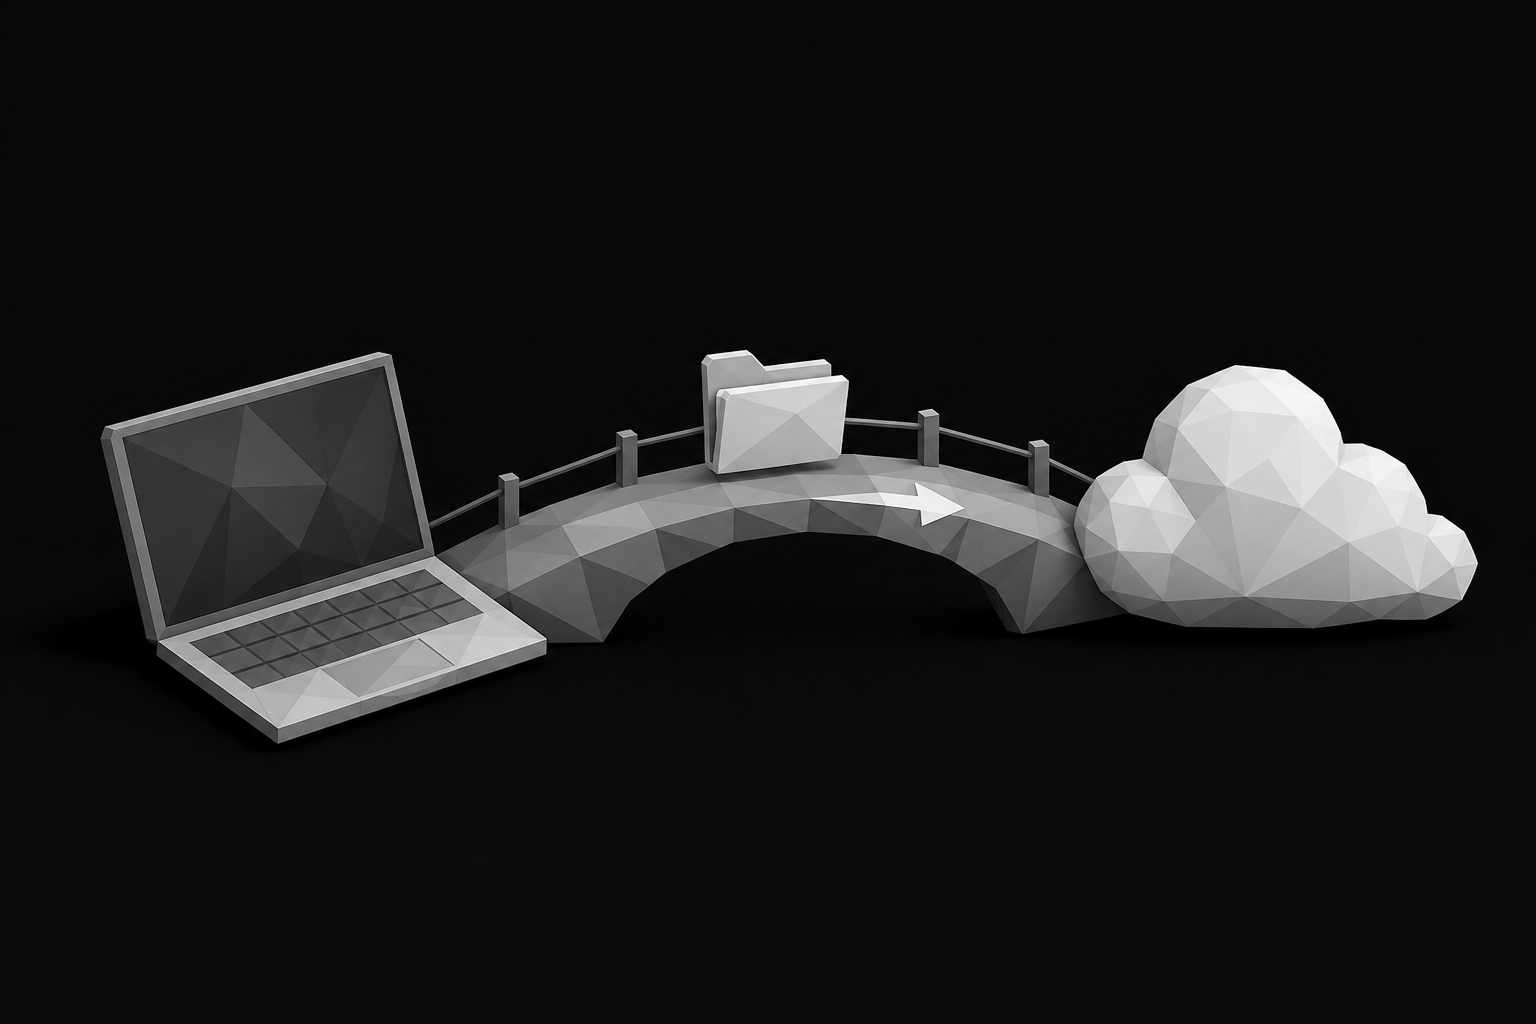
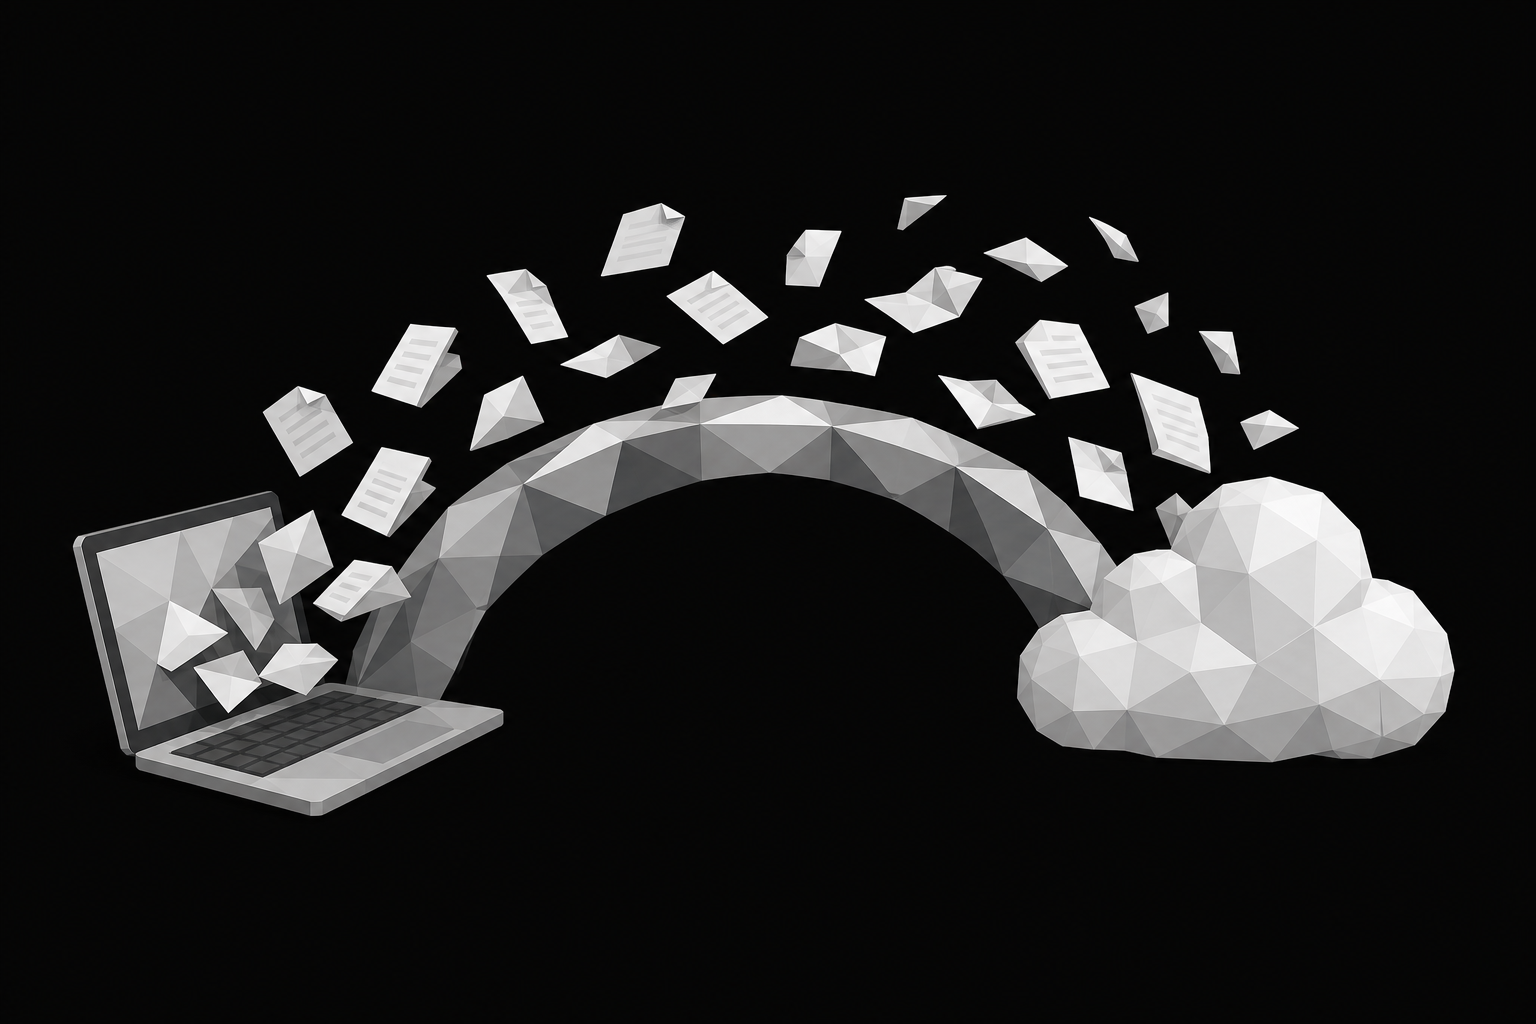
feat(www): align walkthrough steps on a subgrid and ship the new hero art

diff --git a/apps/www/app/components/walkthrough.tsx b/apps/www/app/components/walkthrough.tsx
@@ -6,7 +6,7 @@ interface TerminalLine {
 }
 
 const Snippet = ({ lines }: { readonly lines: readonly TerminalLine[] }) => (
-  <pre className="flex-1 space-y-3 overflow-x-auto rounded-lg border bg-card p-4 font-mono text-xs leading-relaxed">
+  <pre className="space-y-3 whitespace-pre-wrap break-words rounded-lg border bg-card p-4 font-mono text-xs leading-relaxed [overflow-wrap:anywhere]">
     {lines.map((line) => (
       <span className="block" key={line.cmd}>
         <span className="block">
@@ -36,15 +36,13 @@ interface StepProperties {
 }
 
 const Step = ({ caption, children, number, title }: StepProperties) => (
-  <div className="flex flex-col gap-4">
+  <div className="grid grid-rows-[auto_auto_auto] gap-y-2 md:row-span-3 md:grid-rows-subgrid">
     {children}
-    <div className="flex flex-col gap-1">
-      <h3 className="font-semibold text-lg tracking-tight">
-        <span className="mr-2 text-muted-foreground">{number}.</span>
-        {title}
-      </h3>
-      <p className="text-muted-foreground text-sm leading-relaxed">{caption}</p>
-    </div>
+    <h3 className="mt-2 font-semibold text-lg tracking-tight">
+      <span className="mr-2 text-muted-foreground">{number}.</span>
+      {title}
+    </h3>
+    <p className="text-muted-foreground text-sm leading-relaxed">{caption}</p>
   </div>
 );
 
@@ -54,7 +52,7 @@ export const Walkthrough = () => (
       <h2 className="font-semibold text-3xl tracking-tighter md:text-5xl">
         Using dumbridge
       </h2>
-      <div className="grid grid-cols-1 gap-8 md:grid-cols-3">
+      <div className="grid grid-cols-1 gap-x-8 gap-y-10 md:grid-cols-3 md:grid-rows-[auto_auto_auto]">
         <Step
           caption="Serve one directory from your machine. dumbridge prints the key."
           number="1"
@@ -74,9 +72,11 @@ export const Walkthrough = () => (
           number="2"
           title="Ask"
         >
-          <div className="flex-1 rounded-lg rounded-br-none border bg-card p-4 text-left text-sm leading-relaxed">
+          <div className="rounded-lg rounded-br-none border bg-card p-4 text-left text-sm leading-relaxed">
             Find the SKILL.md I was drafting. I never committed it. Key:{" "}
-            <code className="font-mono text-[13px]">dumbridge1_9f3c...</code>
+            <code className="break-words font-mono text-[13px] [overflow-wrap:anywhere]">
+              dumbridge1_9f3c...
+            </code>
           </div>
         </Step>
         <Step